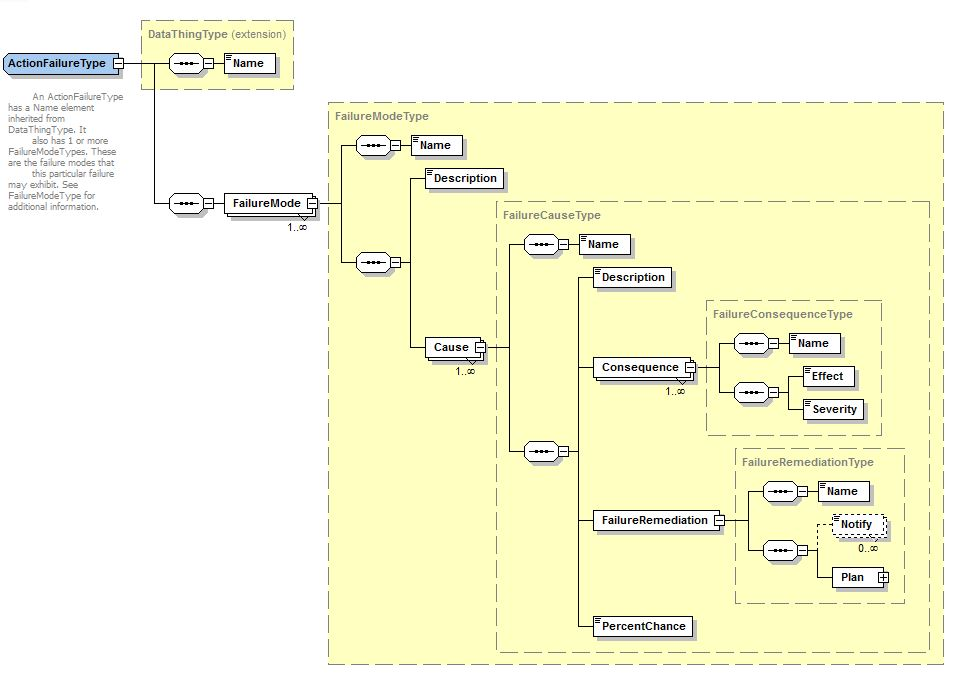
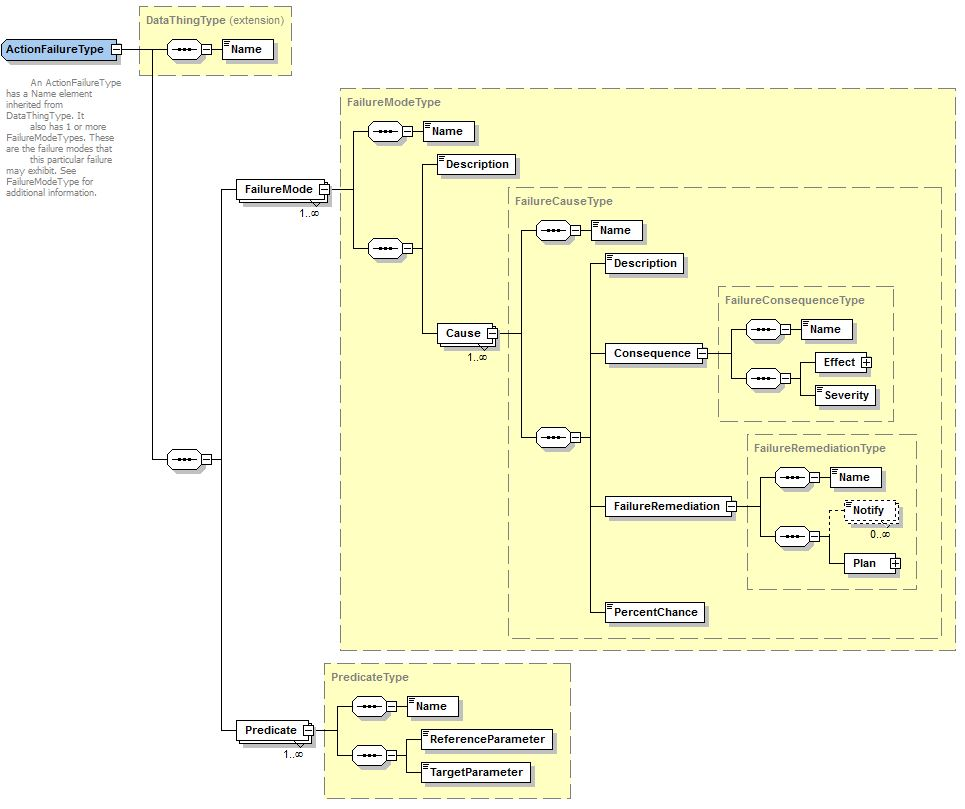
more changes to the paper.
Former-commit-id: 5c70884f3e939e8f10acd3f5accee179db231fcf

Changed region(s): [[0.0, 0.0, 0.999, 0.9897], [0.1514, 0.5567, 0.2422, 0.5876]]

diff --git a/Documents/Papers/Conference/RITA2014/Balakirsky/failureAnalysis.tex b/Documents/Papers/Conference/RITA2014/Balakirsky/failureAnalysis.tex
@@ -2,95 +2,11 @@
 As seen in Figure~\ref{fig:predicateEval}, failures are identified during the evaluation of preconditions and effects. 
 In addition to recognizing failures, it is desired to be able to respond to them.
 In order to properly model this response, additional information must be modeled
-in the ontology. This information is structured as shown below.
-\begin{description}
-	\item{\it Action} -- The action being performed when the failure was detected.
-	\begin{description}
-  		\item{\it Failure Modes} -- A description of the known failure modes that can occur during the execution of a specific action.
-  		\begin{description}
-			\item{\it Causes} -- One or more root causes that could cause the failure. 
-  			\begin{description}
-  				\item{\it Consequences} -- What are the particular consequences of the detected failure?
-  		   		\item{\it Severity} -- An assessment of how serious the consequences of a particular failure are. Each consequence is given a rank of severity ranging from 1 (minor) to 10 (very high). The severity rank is used to trigger the appropriate contingency plan.
- 				\item{\it Remediation} -- What should the system do to remediate this
- 				failure?
-  			\end{description}
-   		\end{description}
-  		\item{\it Predicates} -- The predicates that were detected as invalid during the failure analysis.
-	\end{description}
-\end{description}
+in the ontology. As shown in Figure \ref{fig:failure}, the class {\it ActionFailureType} has been added to the ontology. This class is composed of a {\it PredicateType} class and a {\it FailureModeType} class. It contains all of the information required to be able to diagnose and remediate any failures that are detected by the system.
 
-Table~\ref{tab:putpartfailure} shows an example of failure modes associated to the PDDL action \textsl{put-part}($\mathit{robot}$,$\mathit{part}$,$\mathit{kit}$,$\mathit{worktable}$,$\mathit{partstray}$) which is defined as ``The \textit{Robot} $\mathit{robot}$ puts the \textit{Part} $\mathit{part}$ in the \textit{Kit} $\mathit{kit}$''.
-%previously presented in Figure~\ref{fig:put-part}.
+The {\it PredicateType} class contains a list of predicates whose truth values caused the detection of the current failure condition. Examination of the instances pointed to by the {\it ReferenceParameter} and the {\it TargetParameter} allow the system to understand exactly which components were involved in the failure.
 
-%%%%%%%%%%%%%%%%%%%%%%%%%%%%%%%%%%%%
-%%%%%%%%%%% put-part %%%%%%%%%%%
-%%%%%%%%%%%%%%%%%%%%%%%%%%%%%%%%%%%%
-\begin{table}[h!t!]
-  %\centering
-  \caption{Failure modes for the PDDL action \textit{put-part}.}
-  \label{tab:putpartfailure}
-  \scalebox{0.7}{
-  \begin{tabular}{|l|l|l|l|c|c|c|}
-    \hline
-    \multicolumn{1}{|c|}{\begin{sideways}Action\end{sideways}} &
-    \multicolumn{1}{c|}{\begin{sideways}Failure Mode(s) \,\end{sideways}} &
-    \multicolumn{1}{c|}{\begin{sideways}Cause(s) \,\end{sideways}} &
-    \multicolumn{1}{c|}{\begin{sideways}Effect(s) \,\end{sideways}} &
-    \multicolumn{1}{c|}{\begin{sideways}Severity \,\end{sideways}} &
-    \multicolumn{1}{c|}{\begin{sideways}Occurrence (\%) \,\end{sideways}} &
-    \multicolumn{1}{c|}{\begin{sideways}Predicate(s) \,\end{sideways}} \\
-    \hline
-    \multirow{5}{*}{\textit{\small{put-part}}} &
-    \multirow{2}{*}{\stvar{part} falls off of the end effector} &
-    \multirow{2}{*}{end effector hardware issues} &
-    downtime & %\stvar{endeffector} replacement &
-    9 &
-    \multirow{2}{*}{60} &
-    \small {\textsf{part-location-robot}}\\\cline{4-5}
+The {\it FailureModeType} class provides various known failure modes that could exist for the combination of {\it PredicateType}s that were found deficient. It provides the consequences of such a failure occurring, information on how to remediate such a failure, and the chance that this kind of failure could occur. Understanding the consequences of the failure mode is important if one would like to be able to
+pinpoint the correct cause of the failure. For example, assume that the action {\sc take-part} failed, and the predicate that indicated the failure was {\it part-in-gripper}. Understanding where the part is actually located is critical to understanding the root cause of the failure. If the part is still in the parts tray, it would indicate a grasp related failure. If the part is on the floor of the cell, it would indicate a part handling error. This kind of information is represented in the {\it Effect} class of the consequences. Being able to pinpoint the effects of the failure also allows for judgment on the failure severity. A missed grasp will likely lead to a new grasp attempt and will have little impact on operation. A dropped part may cause damage to the part and have a higher severity level.
 
-     &
-     &
-     &
-    \stvar{part} damage & %\stvar{endeffector} replacement &
-    5 &
-     &
-    \small {\textsf{robot-holds-part}}\\\cline{2-7}
-
-     &
-     \multirow{3}{*}{\stvar{part} not released at all}&
-     end effector hardware issues &
-     downtime &
-     9 &
-     \multirow{3}{*}{8} &
-     $\neg$(\small{\textsf{part-location-robot}})\\\cline{3-5}
-
-     &
-     &
-     \multirow{2}{*}{wrong/inexistant CRCL command} &
-     \multirow{2}{*}{downtime} &
-     \multirow{2}{*}{7} &
-      &
-     $\neg$(\small{\textsf{robot-holds-part}})\\
-%
-     &
-     &
-     &
-     &
-     &
-     &
-     \small {\textsf{robot-empty}}\\\hline
-
-\end{tabular}
-}
-\end{table}
-The column \textit{Predicate(s)} shows the predicates from the action \textit{put-part} that can activate the corresponding failure mode (column \textit{Failure Mode(s)}) if their truth-value is evaluated to false.
-
-The classes discussed below are used to represent action failures in the SOAP ontology. All these classes are subclasses of \class{DataThing}.
-\begin{enumerate}
-\item \class{Action} -- An \class{Action} has at least one \class{FailureMode} (\emph{hasAction\_FailureMode}).
-\item \class{FailureMode} -- A \class{FailureMode} has at least one \class{FailureEffect} (\emph{hasFailureMode\_FailureEffect}). A \class{FailureMode} has a description (\emph{hasFailureMode\_Description}) of type \texttt{Literal} which represents the nature of the failure mode. The cause of the failure mode is expressed with \emph{hasFailureMode\_Cause} and is of type \texttt{Literal}. The occurrence of the failure mode is expressed with \emph{hasFailureMode\_Occurrence} and is of type \texttt{Integer}. A \class{FailureMode} has at least one \class{Predicate} (\emph{hasFailureMode\_Predicate}) that can be responsible for the occurrence of the failure mode. The \class{Predicate} should be already defined \textit{prior} to its association with the class \class{FailureMode}.
-\item \class{FailureEffect} -- A \class{FailureEffect} has one failure severity (\emph{hasFailureEffect\_FailureSeverity}) of type \texttt{integer} and a description (\emph{hasFailureEffect\_Description}) of type \texttt{Literal}.
-\end{enumerate}
-%
-%
+Failure remediation is described by the {\it FailureRemediation} class. This class contains information on what notifications need to be sent as a result of the failure as well as what actions should be taken. Continuing our example from above, the grasp failure may cause grasping information to be sent to the enginering department for algorithm development while the dropped part may notify logistics that an additional component will be required. Recovery from the failure is possible by executing the {\it Plan} that accompanies the detected failure.

diff --git a/Documents/Papers/Conference/RITA2014/Balakirsky/systemOperation.tex b/Documents/Papers/Conference/RITA2014/Balakirsky/systemOperation.tex
@@ -58,8 +58,8 @@ evaluation.
  	determine actual pose $APoseT$ of $PredicateIn.TargetParameter$\;
  	determine RCC8 relations between $APoseR$ and $APoseT$\;
  	determine Intermediate State Relations based on RCC8 relations\;
- 	determine truth value of $PredicateIn$ and write to mySQL dataqbase\;
-\caption{{\sc SensorProcessing} -- Updates the mySQL database in the Execution world model
+ 	determine truth value of $PredicateIn$ and write to MySQL dataqbase\;
+\caption{{\sc SensorProcessing} -- Updates the MySQL database in the Execution world model
 to contain the latest evaluation of predicates related to $PredicateIn$.}
 \label{fig:sensorProcess}
 \end{algorithm}
@@ -76,12 +76,10 @@ RCC8 \cite{Wolter2000} is an approach for representing the relationship between 
 is based on the definition of RCC8 and consists of eight possible relations that include Tangential Proper Part (TPP), Non-Tangential Proper Part(NTPP), Disconnected (DC), Tangential Proper Part Inverse (TPPi), Non-Tangential Proper Part Inverse (NTPPi), Externally Connected (EC), Equal (EQ), and Partially Overlapping (PO). In order to represent these relations in all three dimensions for the kitting domain, RCC8 has been extended to a three-dimensional space by applying it along all three planes (x-y, x-z, y-z) and by including cardinal direction relations ``+'' and ``-''. In the ontology, RCC8 relations and cardinal direction relations are represented as subclasses of the class \class{RCC8\_Relation}. 
 %
 \subsubsection{Intermediate State Relation --}
-These are intermediate level state relations that can be inferred from the combination of RCC8 and cardinal direction relations. For  instance, the intermediate state relation \textbf{Contained-In} is used to describe object \textit{obj1} completely inside object \textit{obj2} and is represented with the following combination of RCC8 relations:
+These relations can be inferred from the combination of RCC8 and cardinal direction relations. For  instance, the intermediate state relation \textbf{In-Contact-With} is used to describe that object \textit{obj1} is in contact with object \textit{obj2}. This is true if \textit{obj1} is externally connected to \textit{obj2} in the x-direction, the y-direction, or the z-direction,  and is represented with the following combination of RCC8 relations:
 \begin{gather}
-\textbf{Contained-In}(\textit{obj1}, \textit{obj2}) \rightarrow   \notag\\
-(\texttt{x-TPP}(\textit{obj1}, \textit{obj2}) \vee \texttt{x-NTPP}(\textit{obj1}, \textit{obj2})) \wedge \notag\\
-(\texttt{y-TPP}(\textit{obj1}, \textit{obj2}) \vee \texttt{y-NTPP}(\textit{obj1}, \textit{obj2})) \wedge \notag\\
-(\texttt{z-TPP}(\textit{obj1}, \textit{obj2}) \vee \texttt{z-NTPP}(\textit{obj1}, \textit{obj2}))\notag
+\textbf{In-Contact-With}(\textit{obj1}, \textit{obj2}) \rightarrow   \notag\\
+\texttt{x-EC}(\textit{obj1}, \textit{obj2}) \vee \texttt{y-EC}(\textit{obj1}, \textit{obj2}) \vee \texttt{z-EC}(\textit{obj1},\textit{obj2}) \notag
 \end{gather}
 In the ontology, intermediate state relations are represented with the OWL built-in property \texttt{owl:equivalentClass} that links the description of the class \class{Intermediate\_State\_Relation} to a logical expression based on RCC8 relations from the class \class{RCC8\_Relation}.
 \subsubsection{Predicate Relation --} The truth-value of predicates can be determined through the logical combination of intermediate state relations. The predicate \class{kit-location-lbwk}(\textit{kit}, \textit{lbwk}) is true if and only if the location of the kit \textit{kit} is in the large box with kits \textit{lbwk}. This predicate can be described using the following combination of intermediate state relations:
@@ -102,7 +100,7 @@ generated.
 %
 \begin{figure}[htb!]
 \begin{center}
-\includegraphics[width=8.5cm]{images/Kit.jpg}
+\includegraphics[width=12cm]{images/Kit.jpg}
 \caption{Description of the KitType class that is designed to bring together
 a container (the KitTray), a design for the kit creation, and specific parts
 that populate the kit.}
@@ -119,7 +117,7 @@ location for this part to be placed is not specified at the time of plan
 creation. It is up to the executor, working with the world model, to find
 an empty slot in the kit that can receive the part. The structure of the
 ontology is specifically designed to support this grounding, and this
-structure is automatically replicated in the mySQL database that resides
+structure is automatically replicated in the MySQL database that resides
 in the execution portion of the world model. 
 
 Continuing with

diff --git a/Documents/Papers/Conference/RITA2014/Balakirsky/introduction.tex b/Documents/Papers/Conference/RITA2014/Balakirsky/introduction.tex
@@ -5,14 +5,14 @@ Even though today's state-of-the-art industrial robots are capable of sub-millim
 necessary to detect failures and the programming required to cope with and correct the failure. This is due to the fact that they are often programmed
 by an operator using crude positional controls from a teach pendent. These teach pendent programs are highly repeatable, which provides 
 utility for large-batch, error-free operation. However, the cyclic program that repeats identical operations does not lend itself well to adaptation for 
-error failure mitigation. In fact, producing a program to correct a perceived failure would require that the cell be taken off-line
+failure mitigation. In fact, producing a program to correct a perceived failure would require that the cell be taken off-line
 for additional human-led teach pendent programming. In addition, 
 most cells lack the ability to sense that an failure occurred and  lack programming (that would have had to be teach pendent entered) to cope
-with error conditions, thus making it impossible for the cell to recover from errors.
-This leads to faulty products being sent down the line, and/or downtime for the cell as errors are detected and corrected.
+with failure conditions, thus making it impossible for the cell to recover from failures.
+This leads to faulty products being sent down the line, and/or downtime for the cell as failures are detected and corrected.
 
 For small batch processors or other customers who must frequently change their line configuration or desire to perform complex operations
-with their robots, this frequent downtime and lack of error correction/detection may be unacceptable. The robotic systems of tomorrow need to be capable, flexible, and agile.  
+with their robots, this frequent downtime and lack of failure correction/detection may be unacceptable. The robotic systems of tomorrow need to be capable, flexible, and agile.  
 These systems need to perform their duties at least  as well as human counterparts, be quickly re-tasked to other operations, cope with a wide 
 variety of unexpected environmental and operational changes, and be able to detect and correct errors in operation. 
 To be successful, these systems need to combine domain expertise, knowledge of their own skills and limitations, and both semantic and geometric 
@@ -22,7 +22,7 @@ The IEEE Robotics and Automation Society's Ontologies for Robotics and Automatio
 infrastructure necessary for such a system, while the Industrial Subgroup has applied this infrastructure to create a sample kit building
 system.  This work is presented in Balakirsky et al. \cite{balakirsky2013} which describes the construction of a robotic kit building
 system that is able to cope with environmental and task changes without operator intervention. This article extends that work to utilize
-the same infrastructure to allow for the detection and correction of action errors in the system.
+the same infrastructure to allow for the detection and correction of action failures in the system.
 
 The organization of the remainder of this paper is as follows. Section \ref{sect:kitting} describes the domain of kit building. Section \ref{sect:overview} presents
 an overview of the software system architecture for the robot cell. Section \ref{sect:operation} presents results of this work, and Section \ref{sect:future} presents

diff --git a/Documents/Papers/Conference/RITA2014/Balakirsky/conclusions.tex b/Documents/Papers/Conference/RITA2014/Balakirsky/conclusions.tex
@@ -1,7 +1,7 @@
 \section{Conclusions and Future Work}
 \label{sect:future}
-The framework described in this paper has been applied to the domain of kit building, which is a simple, but practically useful manufacturing/assembly domain.
+The framework described in this paper has been applied to the domain of kit building, which is a simple, but practically useful manufacturing/assembly domain. Through its use, we have been able to demonstrate agility in both kit construction through late binding of part locations, and in recovery from action failures.
 
-Discussion on how predicates are currently hardcoded and will need more information in the ontology to be truly automatic.
+There are several areas that still exist where hand-coding of data is required. It is desired that extensions to the ontology be created that will allow for the automatic application of knowledge and eliminate code that it specifically tuned to a particular set of predicates or actions. The hand-coded areas include the conversion of PDDL actions to CRCL sequences as well as the retrieval of instance data from the MySQL database for predicate evaluation. Work is currently underway to correct for these deficiencies. 
 
-Discussion of CRCL decomposition and late binding being built into ontology.
+Extensions are also possible that will expand this work to the realm of general assembly. We hope to apply this knowledge based framework to simple assembly tasks (growing towards more complex tasks) on a real robot workcell in the near future. 

diff --git a/Documents/Papers/Conference/RITA2014/Balakirsky/systemOverview.tex b/Documents/Papers/Conference/RITA2014/Balakirsky/systemOverview.tex
@@ -46,7 +46,7 @@ This area of the ontology contains information on basic elements such as a ``poi
 and a three-dimensional quantity, as well as complex types such as a ``part'', which is
 shown in Figure \ref{fig:part}, and
 contains elements such as a the part's shape, stock keeping unit (SKU) number, and location. This information is utilized to create parameters for the Planning World
-Model and the skeleton tables for the mySQL database of the Execution World Model.
+Model and the skeleton tables for the MySQL database of the Execution World Model.
 %
 \begin{figure}[htb!]
 \begin{center}
@@ -120,7 +120,7 @@ a standard PDDL domain and PDDL problem file. Any of the family of PDDL Version 
 run on these files to create the static plan instance file. A representation of this plan may be stored in the ontology for future use.
 %
 \subsubsection{Execution --}
-The execution world model is also built automatically from the ontology. This world model consists of a mySQL database and C++ and Java
+The execution world model is also built automatically from the ontology. This world model consists of a MySQL database and C++ and Java
 interfaces that provide for easy access to the data. The table skeletons are generated from the kitting ontology, and the tables are initially populated
 with information from the initial and goal condition files. During plan execution, the executor guides the sensor processing system
 in updating the information in 

diff --git a/Documents/Papers/Conference/RITA2014/Balakirsky/balakirsky RITA 2014.tex b/Documents/Papers/Conference/RITA2014/Balakirsky/balakirsky RITA 2014.tex
@@ -55,11 +55,7 @@ University of Maryland, College Park, MD zip, USA,\\
 \maketitle              % typeset the title of the contribution
 
 \begin{abstract}
-The abstract should summarize the contents of the paper
-using at least 70 and at most 150 words. It will be set in 9-point
-font size and be inset 1.0 cm from the right and left margins.
-There will be two blank lines before and after the Abstract. \dots
-\keywords{manufacturing, ontology, robotics}
+Many of today’s robotic workcells are unable to detect when an action failure has occurred. This results in faulty products being sent down the line, and/or downtime for the cell as failures are detected and corrected. This article examines a novel knowledge-driven system that provides added agility by detecting and correcting action failures. The system also provides for late binding of action parameters, thus providing flexibility by allowing plans to adapt to changing environmental conditions. The key feature to this system is its knowledgebase that contains the necessary relationships and representations to allow for the failure detection and correction. This article presents the ontology that stores this knowledge as well as the overall system architecture. The manufacturing domain of kit construction is examined as a sample test environment. 
 \end{abstract}
 %
 %
